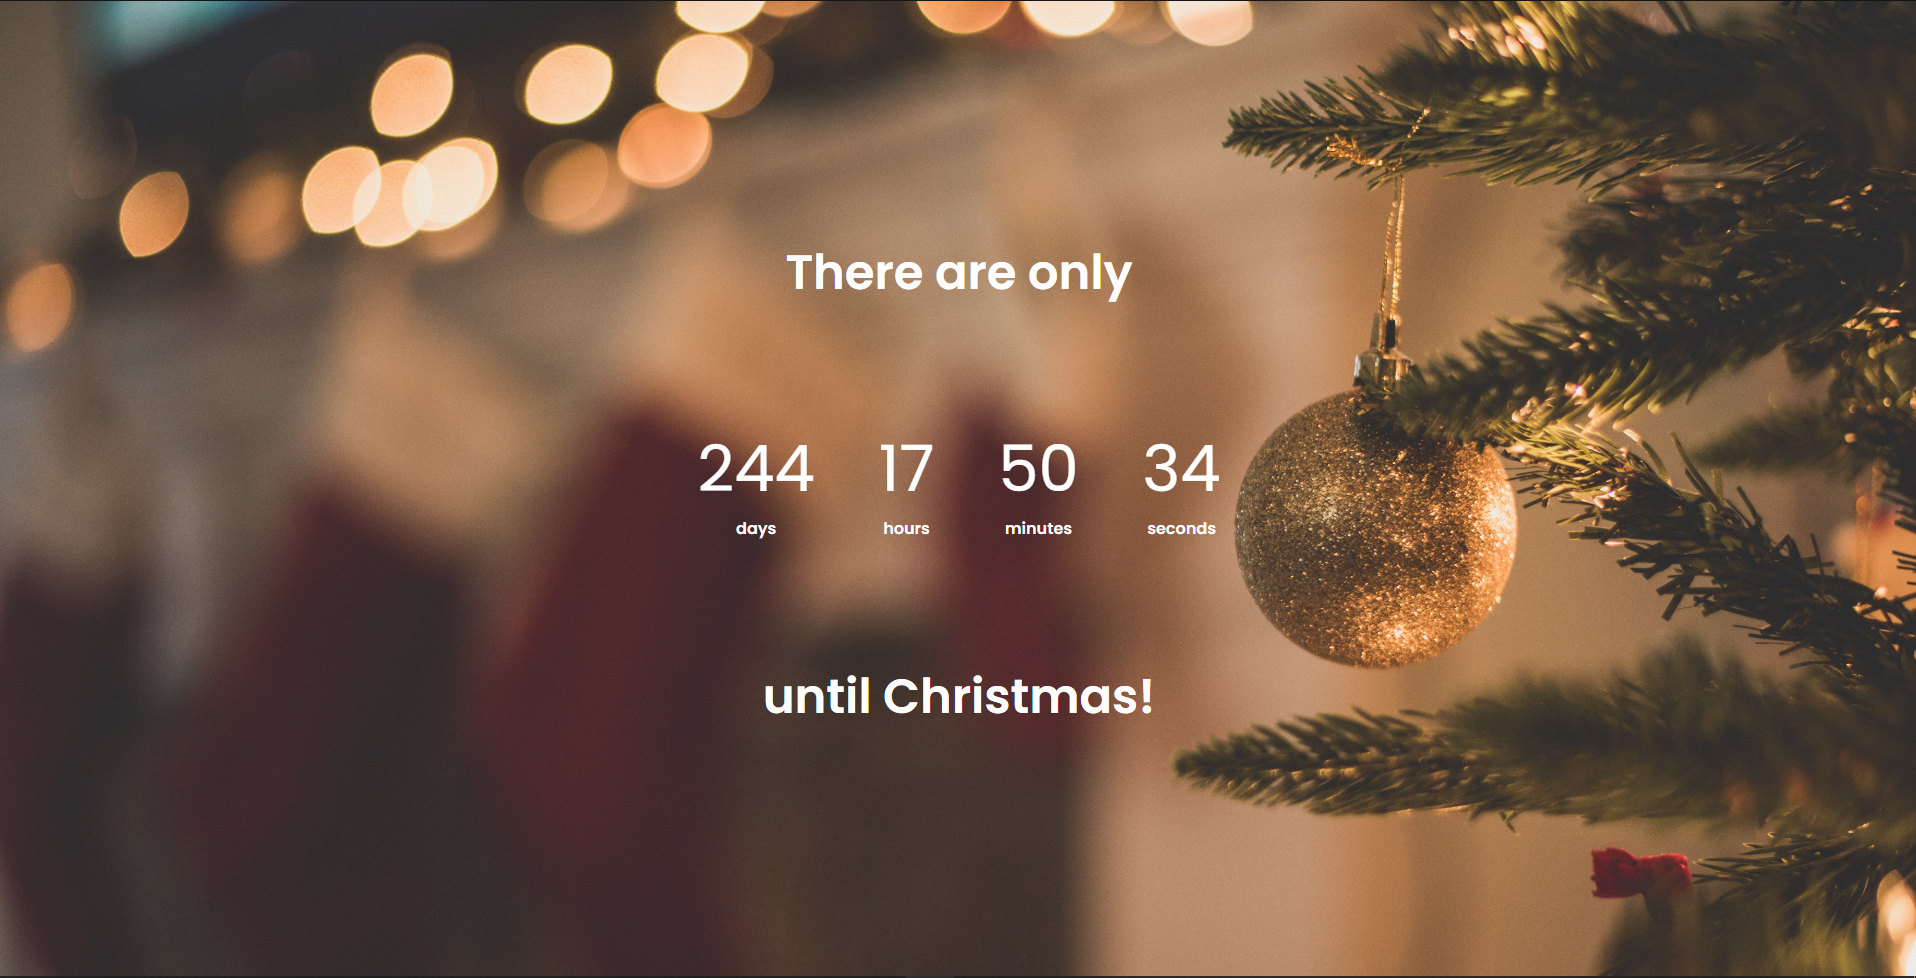
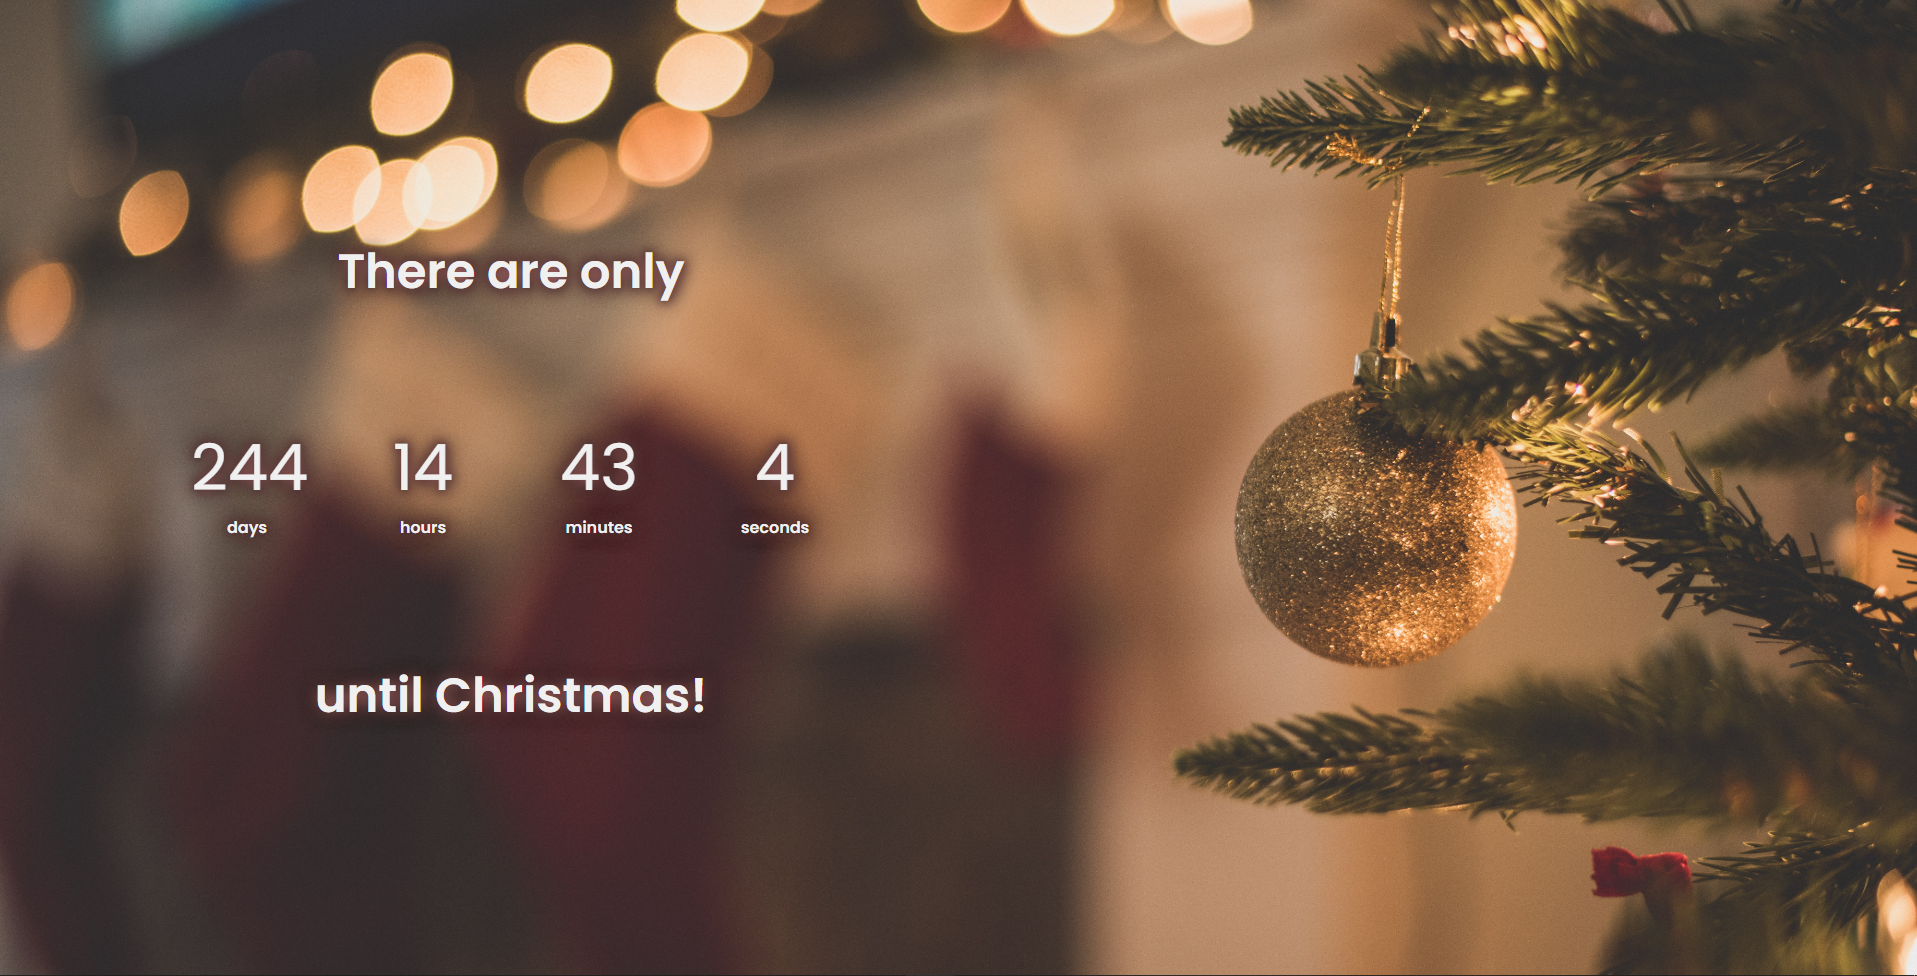
Font family changed

diff --git a/styles.css b/styles.css
@@ -1,4 +1,4 @@
-@import url("https://fonts.googleapis.com/css2?family=Poppins:wght@200;400;600&display=swap");
+@import url("https://fonts.googleapis.com/css2?family=Mountains+of+Christmas&display=swap");
 
 * {
   box-sizing: border-box;
@@ -7,7 +7,7 @@
 body {
   background-image: url("./background.jpg");
   background-size: cover;
-  font-family: "Poppins", sans-serif;
+  font-family: "Mountains of Christmas", cursive;
   display: flex;
   flex-direction: column;
   align-items: center;
@@ -31,16 +31,16 @@ body {
 
 h1,
 h2 {
-  font-size: 3rem;
+  font-size: 3.5rem;
 }
 
 .element-text {
-  font-size: 4rem;
+  font-size: 5rem;
   margin: auto 2rem;
 }
 
 span {
-  font-size: 1rem;
+  font-size: 1.5rem;
   font-weight: bold;
 }
 
